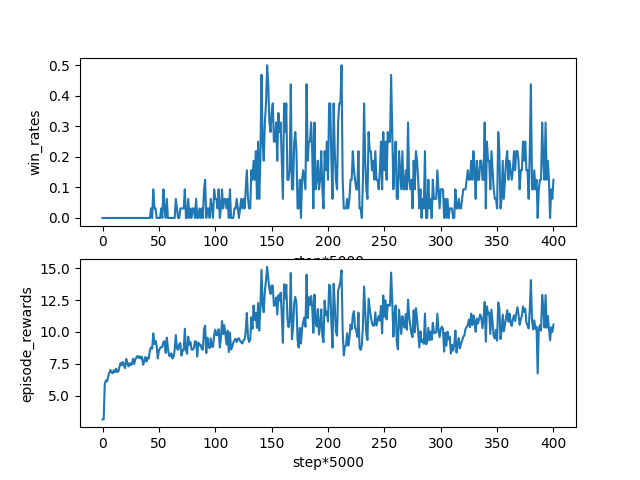
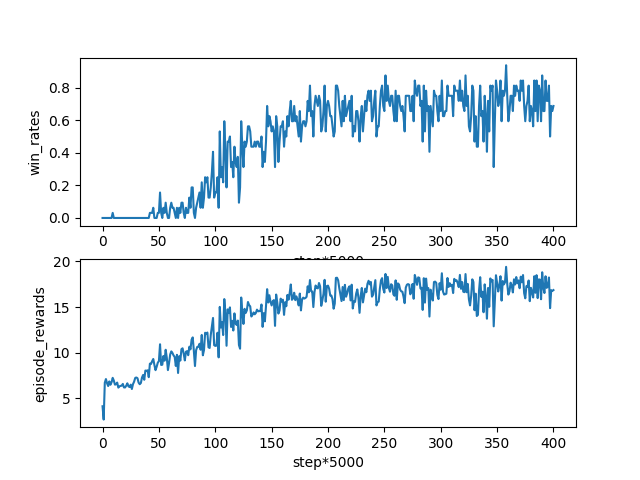
w_shape

diff --git a/network/dtrans.py b/network/dtrans.py
@@ -14,10 +14,10 @@ class DTRANS(nn.Module):
         self.qe = args.quantile_emb_dim 
         self.hypernet_emb = args.hypernet_emb
         self.state_dim = int(np.prod(args.state_shape))
-        self.obs_w = OBS_W(args)
+        """self.obs_w = OBS_W(args)
         self.b_mean = nn.Sequential(nn.Linear(self.state_dim, self.hypernet_emb),
                                     nn.ReLU(),
-                                    nn.Linear(self.hypernet_emb, 1))
+                                    nn.Linear(self.hypernet_emb, 1))"""
 
         self.psi = nn.Sequential(nn.Linear(self.state_dim, self.hypernet_emb),
                                  nn.ReLU(),
@@ -29,7 +29,7 @@ class DTRANS(nn.Module):
                                     nn.ReLU(),
                                     nn.Linear(self.hypernet_emb, self.n_agents))
     
-    def forward(self, z_values, states, obs,rnd_q):
+    """def forward(self, z_values, states, obs,rnd_q):
         b, t, n, nq = z_values.shape
         assert(n==self.n_agents)
         assert(states.shape == (b,t,self.args.state_shape))
@@ -61,5 +61,25 @@ class DTRANS(nn.Module):
         assert(Z_mean.shape==(b,t,1,nq))
         assert(Z_shape.shape==(b,t,1,nq))
 
-        return Z_mean + Z_shape
+        return Z_mean + Z_shape"""
+    def forward(self, z_values, states, obs,rnd_q):
+        b, t, n, nq = z_values.shape
+        assert(n==self.n_agents)
+        assert(states.shape == (b,t,self.args.state_shape))
 
+        w_shape = torch.softmax(self.w_shape(states)).reshape(b,t,n,1).expand(-1,-1,-1,nq)
+        z_values *= w_shape
+
+        tau = rnd_q.view(b*t*nq, 1).expand(-1, self.qe)  # b*t*nq, qe
+        i = torch.arange(0,self.qe).view(1,-1).expand(b*t*nq, self.qe)
+        if self.args.cuda:
+            i = i.cuda()
+        phi = f.relu(self.phi(torch.cos(math.pi * i * tau))) # b*t*nq, emb
+        assert phi.shape == (b*t*nq, self.hypernet_emb)
+        psi = self.psi(states)
+        psi = psi.reshape(b,t,1,self.hypernet_emb).expand(b,t,nq,self.hypernet_emb).reshape(b*t*nq,self.hypernet_emb)
+        # psi: b*t*nq, emb
+        Z_state = self.g(psi * phi).reshape(b, t, 1, nq)
+
+        Z_total = z_values.sum(dim=2, keepdim=True) + Z_state
+        return Z_total

diff --git a/common/rollout.py b/common/rollout.py
@@ -54,7 +54,7 @@ class RolloutWorker:
             state = self.env.get_state()
             actions, avail_actions, actions_onehot = [], [], []
             rnd_q = None
-            if self.args.alg in ["ddn","dplex","dtrans"]:
+            if self.args.alg in ["ddn","dmix","dplex","dtrans"]:
                 avail_actions = self.env.get_avail_actions()
                 actions = self.agents.choose_actions(obs,last_action, avail_actions, epsilon, evaluate)
                 for agent_id in range(self.n_agents):

diff --git a/common/arguments.py b/common/arguments.py
@@ -86,8 +86,8 @@ def get_ddn_args(args):
 def get_dmix_args(args):
     args.rnn_hidden_dim = 256
     args.quantile_emb_dim = 64
-    args.n_quantiles = 16
-    args.n_target_quantiles = 16
+    args.n_quantiles = 1
+    args.n_target_quantiles = 1
     args.n_approx_quantiles = 32
     args.attention_dim = 32
     args.hypernet_emb = 64
